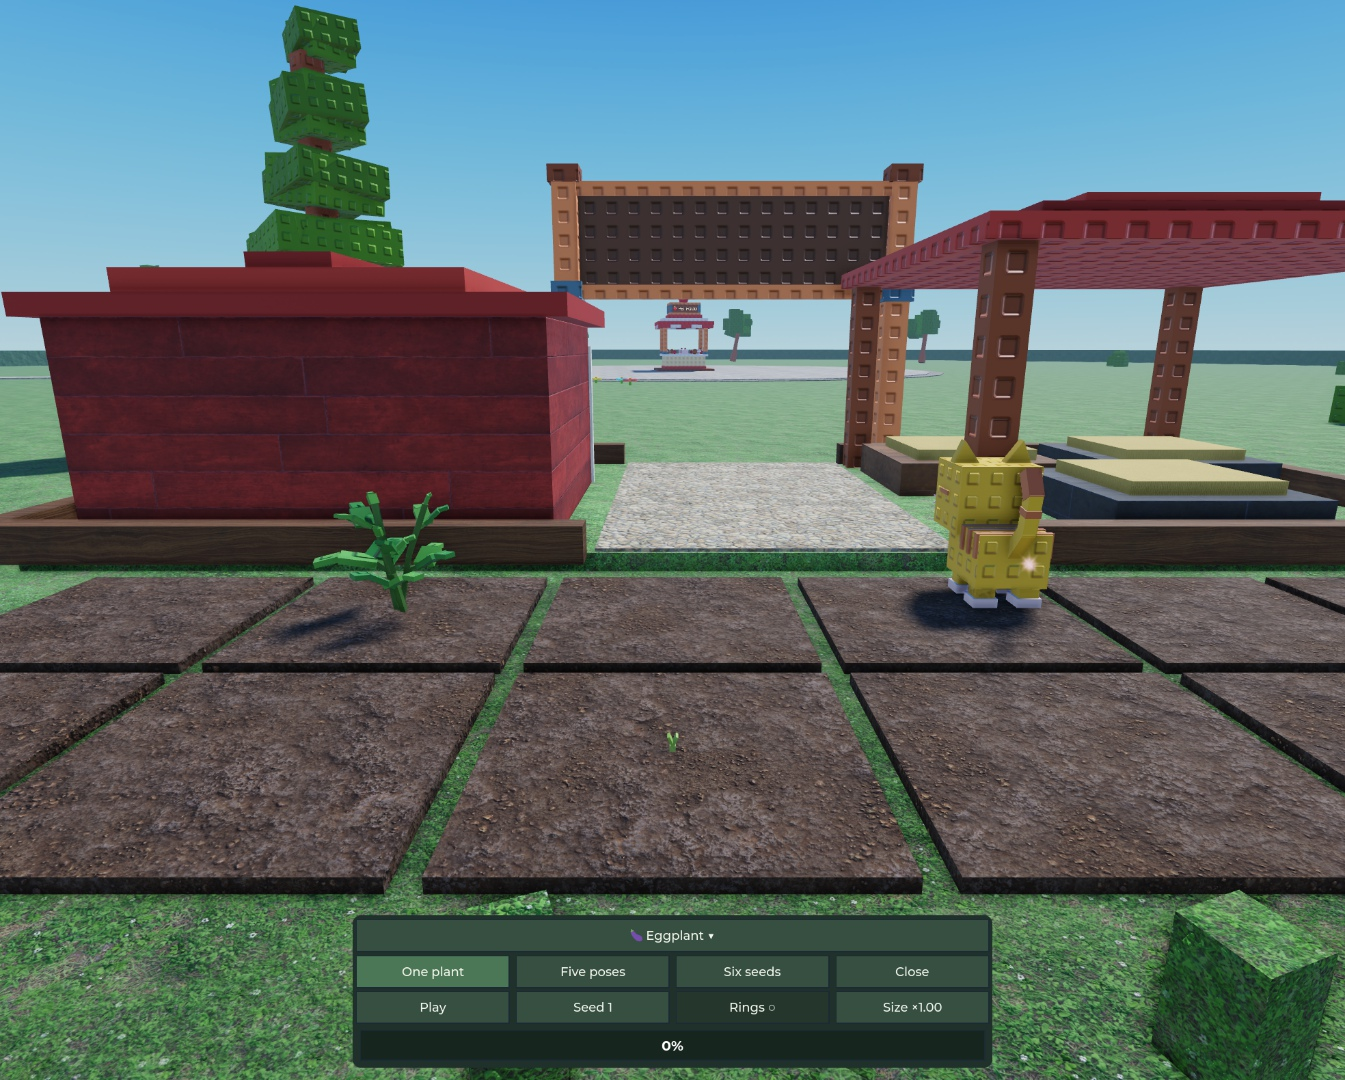
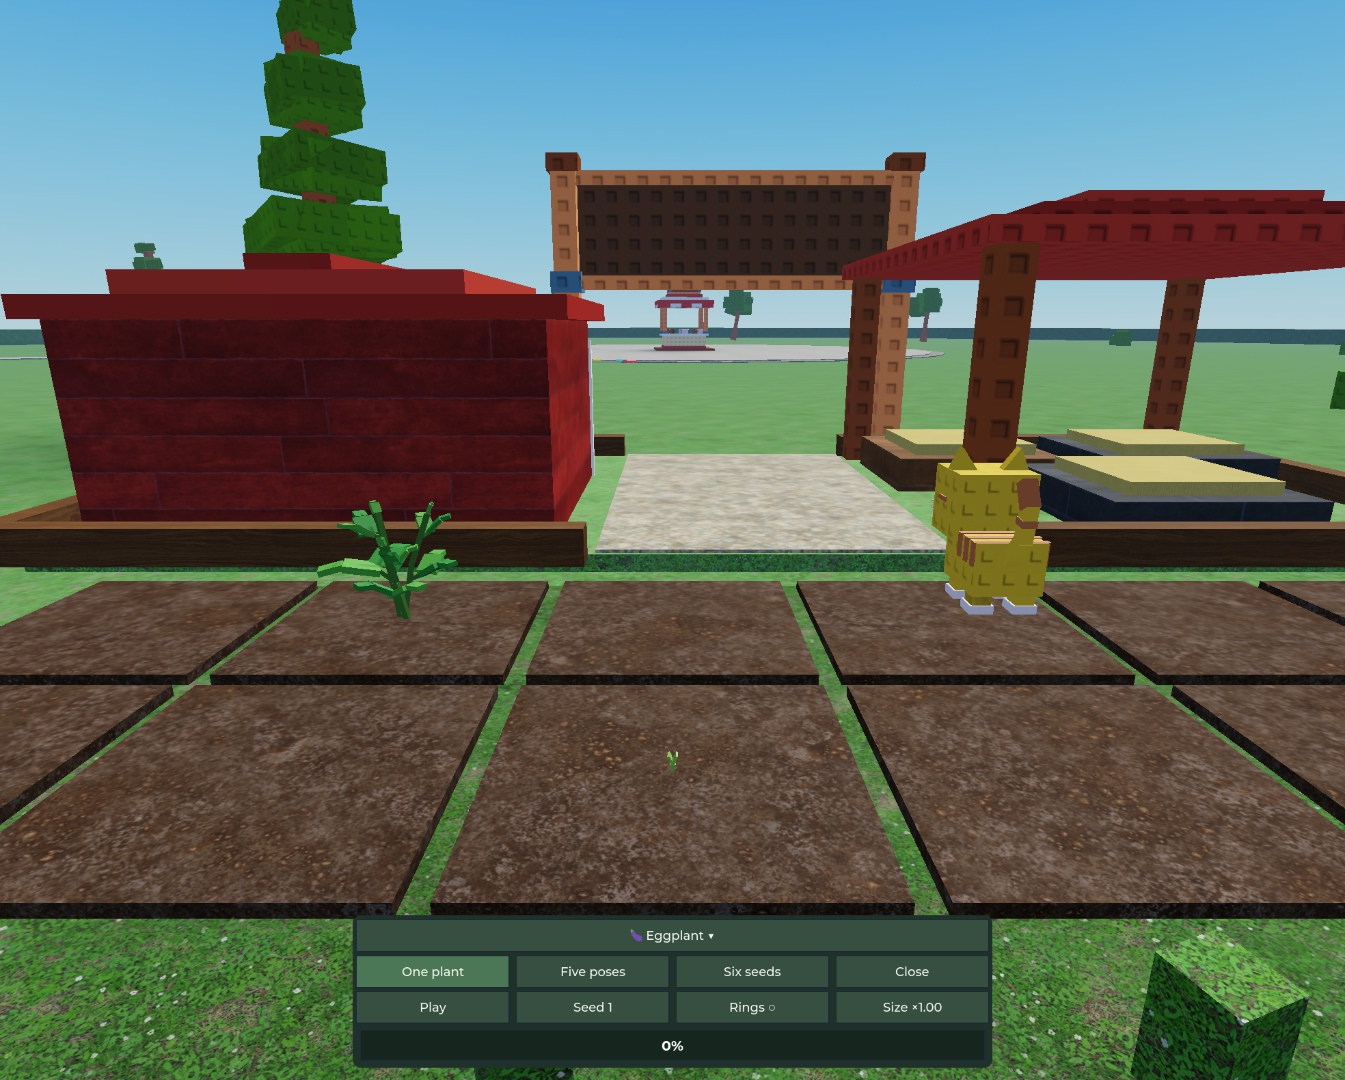
Enlarge eggplant leaves and delay purple stem tint

diff --git a/docs/plants/EGGPLANT.md b/docs/plants/EGGPLANT.md
@@ -5,7 +5,8 @@
 ## Selected design (CG16a, 2026-11-11)
 
 **Ales chose B — Tall open plant.** Keep the tall leader, unequal upper arms, five broad lobed leaves and three long hanging
-aubergines from that study. A and C below are the decision record.
+aubergines from that study. A and C below are the decision record. Ales's growth review correction: leaf blades **1.85× longer
+and wider**, held more upright on shorter petioles; the young stem stays green and develops its purple tint midway through growth.
 
 Ales supplied a [life-cycle illustration](../art/eggplant/reference-life-cycle.png) and a
 [fruiting-plant photo](../art/eggplant/reference-ripe-plant.png). Preserve the upright branching habit, broad shallow-lobed
@@ -39,15 +40,16 @@ The B recipe implements the following poses. Art review precedes field registrat
 | Growth | Pose |
 |---|---|
 | **0%** | Tiny emerging shoot and two folded cotyledons at the soil. An unplanted square stays bare. |
-| **20%** | A short green stem, two opened cotyledons and the first broad true leaves; purple tint begins at the lower stem. |
-| **50%** | The main fork and unequal side shoots extend; true leaves unfold in alternating tiers. Violet five-petal flowers with yellow centres open at future fruit attachments. |
+| **20%** | A short green stem, two opened cotyledons and the first broad true leaf. The stem and petiole remain green. |
+| **50%** | The main fork and unequal side shoots extend; large true leaves unfold in alternating tiers. The lower stem and petioles are midway through their green-to-purple transition. Violet five-petal flowers with yellow centres open at future fruit attachments. |
 | **75%** | The bush is almost full. Petals curl inward and fade; calyxes remain green as small dusky-purple fruit lengthen beneath them. The lower fruit leads the upper fruit slightly. |
 | **100%** | Three full deep-purple fruit hang from bent pedicels under green star calyxes. Leaves frame the fruit; loaded arms settle slightly. No brown, dried or yellow overripe fruit. |
 
 Overlapping phases: stem/branches 0–63%; true leaves 10–66%; fruit-slot flowers open at 43–52% and contract during fruit set
 at 59–74%; neck and length 62–88%; belly filling 74–100%; richer purple 70–96%; load settling 80–100%. The shorter central
 fruit starts 2.5 percentage points later. Flowers and fruit share their attachment point. The decorative top flower opens at
-46–57% and remains on the mature plant, as in the selected study. Cotyledons fade at 26–43%.
+46–57% and remains on the mature plant, as in the selected study. Cotyledons fade at 26–43%. Lower stems and leaf petioles
+stay green through 35%, then continuously develop purple at 35–65%; this depends on plant age rather than segment extension.
 The small violet fruit starts purple, rather than borrowing Pepper's green → orange → red ripening sequence. Ripeness reads
 from the full lower belly, length and dark skin together. Keep the calyx and stalk attached throughout the bend.
 
@@ -77,14 +79,18 @@ recipe count, not a production performance measurement. Each `fruitSlots[1..3]` 
 attachment CFrame and its 22 grouped Parts. `PlantRole` separates structure, foliage and fruit; `FruitSlot` identifies each
 fruit group, including its spent blossom Parts.
 
-Seed 1 at standard harvest size matches the selected B: **5.11 studs** tall with **2.06-stud** ground radius. The recipe uses
-free-standing seeded orientation, constrained foliage vigor and cube-root fruit dimensions. A larger harvest can lift the
-leader to keep the long fruit clear of soil. The nominal ring is fixed at **6.4 studs** (foliage does not shrink with small
-fruit); review framing is **5.8 studs**. Completed leaf groups skip unchanged poses; the shared rig caches Part writes.
+Seed 1 at standard harvest size retains B's tall leader and fruit positions; the enlarged foliage raises the top to **6.12
+studs** with **2.16-stud** ground radius. Its first blade is **2.71 studs long × 2.17 wide**, 1.85× its previous length and
+width. Blade dimensions retain seeded vigor; upright leaf pitch and horizontally shorter petioles keep them inside the
+field footprint. The recipe uses free-standing seeded orientation, constrained foliage vigor and cube-root fruit dimensions.
+A larger harvest can lift the leader to keep the long fruit clear of soil. The nominal ring is fixed at **7.2 studs**
+(foliage does not shrink with small fruit); review framing is **6.5 studs**. Completed leaf groups skip unchanged poses,
+including the petiole colour transition; the shared rig caches Part writes.
 
 [`eggplant_growth_checks.luau`](../../tools/eggplant_growth_checks.luau), Studio Client (2026-11-11): six seeds × three harvested
-mass factors **0.3566 / 1 / 3.0298** × 101 ages pass. Maximum radius **2.26 studs**, ripe height **4.67–5.67 studs**, minimum ripe
-fruit clearance **0.39 studs**. Stem, petiole and fruit-stalk attachments, stable fruit groups, finite geometry, distinct seeds,
+mass factors **0.3566 / 1 / 3.0298** × 101 ages pass after the leaf/stem correction. Maximum radius **2.37 studs**, ripe height
+**5.49–6.67 studs** (maximum all-age top **6.75 studs**), minimum ripe fruit clearance **0.39 studs**. Stem, petiole and fruit-stalk
+attachments, stable fruit groups, green young stems, intermediate petiole tint, enlarged blades, finite geometry, distinct seeds,
 flower/fruit order, exact backward seeks and 1 → 0 restoration pass. All 113 Parts remain anchored, non-colliding and
 non-queryable. The 4 h config and the shared 30 s production update interval are unchanged.
 

diff --git a/docs/ROADMAP.md b/docs/ROADMAP.md
@@ -155,9 +155,10 @@ player has the crop field, so the rest of the garden MVP (EXPANSION §14) is bui
   Ales's review. CG15d field/24-plot performance (3,456 plant Parts per full field), real phone and second client open.
 
 - **CG16:** [Eggplant](plants/EGGPLANT.md) (4 h). Ales chose **B, tall open plant** (2026-11-11). CG16b review recipe: 113 Parts,
-  tall leader, five broad leaves, three flower-to-fruit slots and one decorative top flower. Studio checks (six seeds × three
-  harvested masses × 101 ages): 2.26-stud maximum radius, 4.67–5.67-stud ripe height, 0.39-stud minimum fruit clearance; attached
-  organs and exact backward seeks pass. [Five stills](art/eggplant/growth-review.jpg) await growth-art approval before CG16c
+  tall leader, five broad leaves, three flower-to-fruit slots and one decorative top flower. Revised from Ales's growth review:
+  blades 1.85× longer/wider, upright on shorter petioles; stem stays green until 35%, then tints purple at 35–65%. Studio checks
+  (six seeds × three harvested masses × 101 ages): 2.37-stud maximum radius, 5.49–6.67-stud ripe height, 0.39-stud minimum fruit
+  clearance; attached organs, colour timing and exact backward seeks pass. [Five stills](art/eggplant/growth-review.jpg) await growth-art approval before CG16c
   field registration/proxies/lifecycle checks. CG16d performance (4,068 plant Parts per full field), real phone and second client open.
 
 Key talents as **world rewards**: done for Double Jump (K1, GDD §6). Open: Triple Jump / Dash for World 3. The lost Coin sinks are made up in
